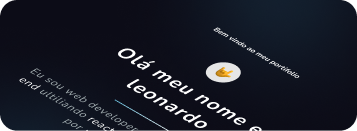
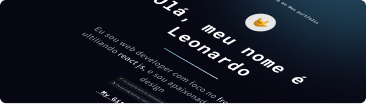
UP-all

diff --git a/src/components/projects/style.ts b/src/components/projects/style.ts
@@ -6,7 +6,7 @@ export const Container = styled.section`
 export const FlexContainer = styled.div`
     display: flex;
     gap: 24px;
-    margin-top: 32px;
+    margin-top: 24px;
     @media (max-width: 425px){
         flex-direction: column;
         align-items: center;
@@ -25,4 +25,8 @@ export const ItemList = styled.li`
 export const Link = styled.a`
     margin-left: 6px;
     text-decoration: underline;
+`
+export const Tumb = styled.img`
+    border: 1px solid rgba(255, 255, 255, 0.15);
+    border-radius: 6px;
 `

diff --git a/src/components/projects/index.tsx b/src/components/projects/index.tsx
@@ -12,7 +12,7 @@ export const Projects = ()=>{
                     {Data.Projects.map((projects,index)=>{
                         return(
                             <S.Box key={index}>
-                                <img src={tumb} alt="" />
+                                <S.Tumb src={tumb} alt="tumb-project"/>
                                 <h3>{projects.Title}</h3>
                                 <ul>
                                     <S.ItemList>{projects.Stacks}</S.ItemList>

diff --git a/src/components/tecnologies/tecnologies.tsx b/src/components/tecnologies/tecnologies.tsx
@@ -19,7 +19,7 @@ export const Tecnologies = ()=>{
                     <S.Title>📱 ui/ux</S.Title>
                     <span>Experiência com</span>
                     <S.List>
-                        <li>design e prototipação ultilizando Figma</li>
+                        <li>design e prototipação ultilizando <strong>Figma</strong></li>
                     </S.List>           
                 </S.BoxCol>
             </S.FlexBox>

diff --git a/src/components/hero/hero.tsx b/src/components/hero/hero.tsx
@@ -11,7 +11,7 @@ export const Hero = ()=>{
             </S.Welcome>
             <S.Logo src={hand}/>
             <S.Title>
-                Olá meu nome é Leonardo
+                Olá, meu nome é Leonardo
             </S.Title>
             <S.Divider/>
             <S.Resume>

diff --git a/src/components/subtitle/style.ts b/src/components/subtitle/style.ts
@@ -15,8 +15,8 @@ export const Circle = styled.div`
     background-color: #00A4F3;
     margin-right: -10px;
     @media (max-width: 425px){
-        width: 12px;
-        height: 12px;
+        width: 15px;
+        height: 15px;
     }
 `
 export const Subtitle = styled.h2`

diff --git a/src/components/tecnologies/style.ts b/src/components/tecnologies/style.ts
@@ -2,9 +2,6 @@ import styled from "styled-components";
 
 export const Container = styled.section`
     margin-top: 28px;
-    @media (max-width: 425px){
-        padding: 0px 15px;
-    }
 `
 export const FlexBox = styled.div`
     display: flex;
